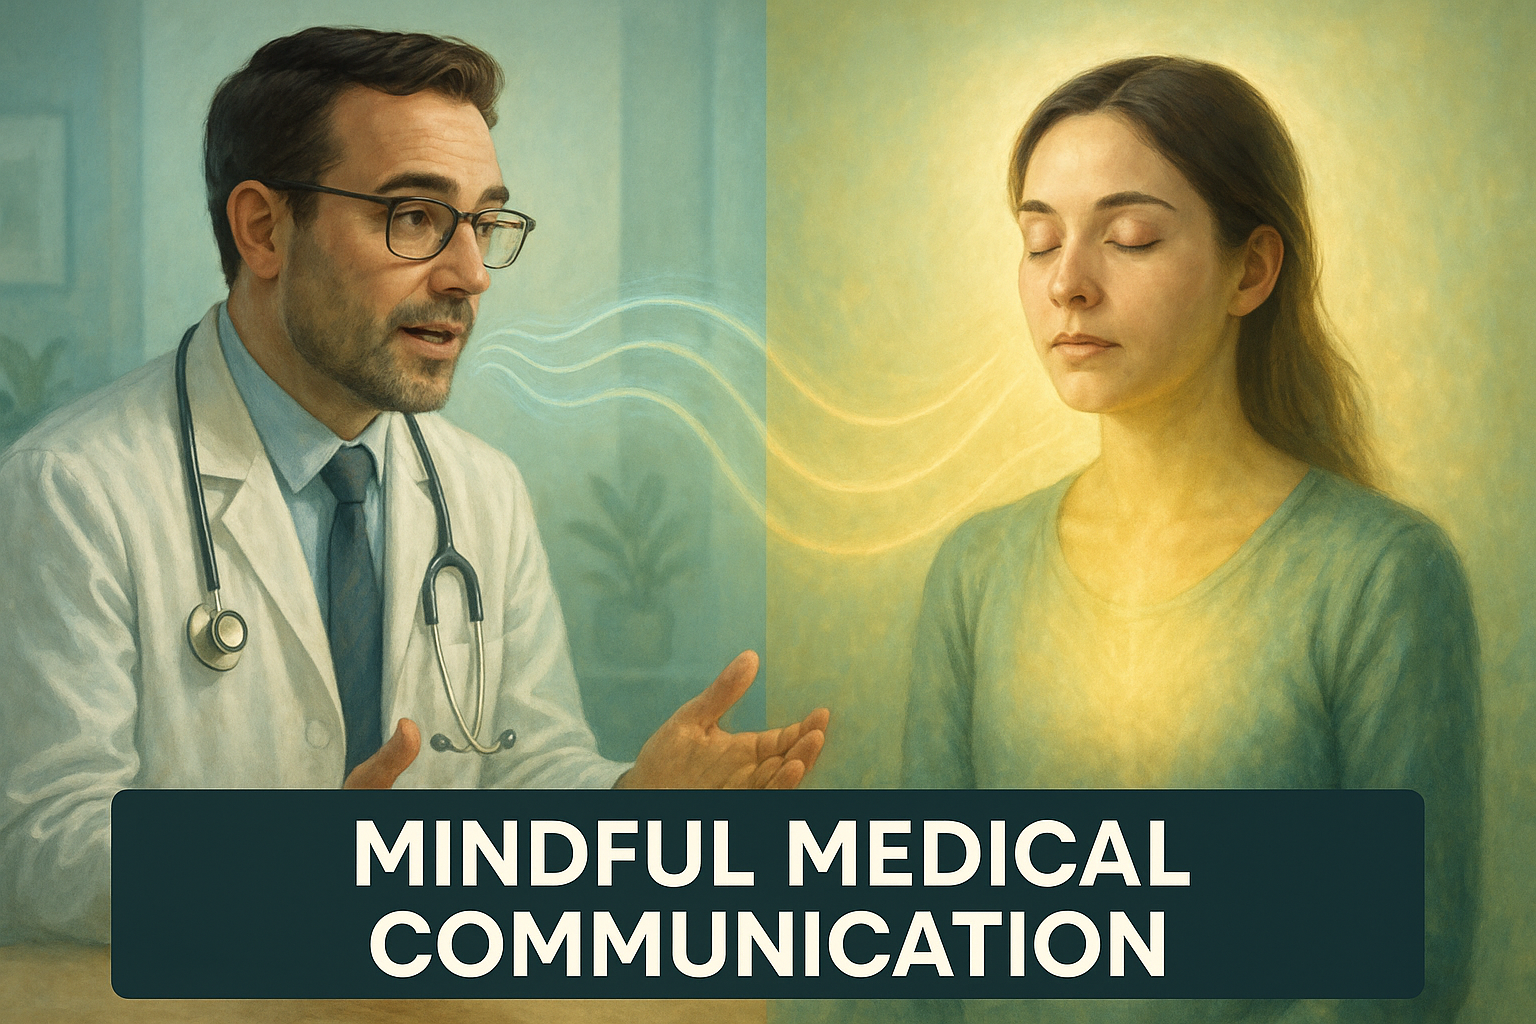
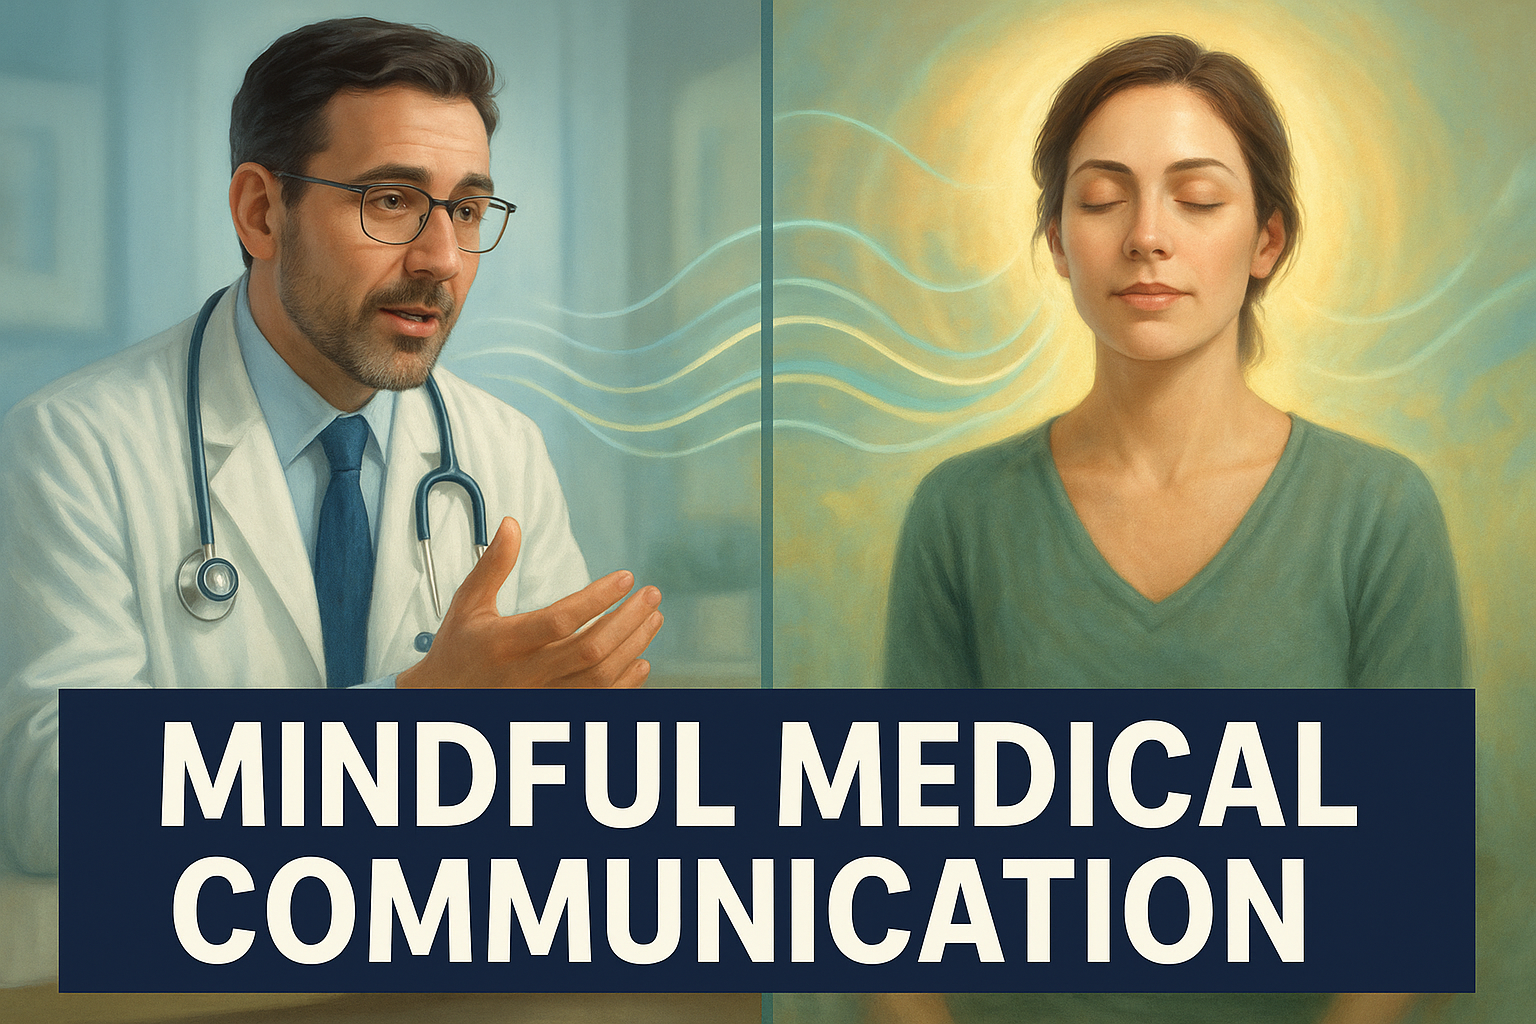
fix: improve article formatting and thumbnail readability
- Reformat article content with proper HTML structure (h2, h3, p, ul, ol tags)
- Magazine-style layout matching other eLibrary articles
- Replace thumbnail with improved version - better text contrast and readability
- Clear 'MINDFUL MEDICAL COMMUNICATION' text banner
- Maintain all SEO optimization and meta tags

diff --git a/blog/blog-post-medical_trance_healing.html b/blog/blog-post-medical_trance_healing.html
@@ -113,7 +113,7 @@
     <article class="blog-post">
         <div class="post-header">
             <div class="breadcrumb">
-                <a href="/">Home</a> &gt; <a href="/blog/">eLibrary</a> &gt; The Unspoken Power: How Your Doctor's Words Shape Healing in a Trance-Like State
+                <a href="/">Home</a> &gt; <a href="/blog/">eLibrary</a> &gt; Medical Trance Healing
             </div>
             
             <h1 class="post-title">The Unspoken Power: How Your Doctor's Words Shape Healing in a Trance-Like State</h1>
@@ -134,155 +134,153 @@
         </div>
 
         <div class="post-content">
-            <h2>Understanding Medical Suggestibility and Patient Empowerment</h2>
+            <p>When you sit in a doctor's office waiting for test results or a diagnosis, something profound happens to your mind and body that most patients never realize. According to psychotherapist Penny Moon, author of "Wellness For Schools," you enter a heightened state of suggestibility—similar to a hypnotic trance—that makes you extraordinarily receptive to every word your doctor speaks. Understanding this phenomenon can fundamentally change how you approach medical consultations and take control of your healing journey.</p>
 
+<h2 id="understanding-medical-suggestibility-and-patient-empowerment">Understanding Medical Suggestibility and Patient Empowerment</h2>
 <p>When you sit in a doctor's office waiting for test results or a diagnosis, something profound happens to your mind and body that most patients never realize. According to psychotherapist Penny Moon, author of "Wellness For Schools," you enter a heightened state of suggestibility—similar to a hypnotic trance—that makes you extraordinarily receptive to every word your doctor speaks. Understanding this phenomenon can fundamentally change how you approach medical consultations and take control of your healing journey.</p>
 
-<h2>The Science Behind Medical Trance States</h2>
+<hr />
 
+<h2 id="the-science-behind-medical-trance-states">The Science Behind Medical Trance States</h2>
 <p>Fear is arguably the most powerful human emotion, and nowhere is this more evident than in medical settings. When facing potential health challenges, your brain automatically enters a state of hypervigilance, creating conditions remarkably similar to clinical hypnosis. This is not metaphorical—it is a measurable psychological and physiological state that occurs through three distinct mechanisms.</p>
 
-<h3>1. Canalization of Attention: The Hyperfocus Effect</h3>
-
+<h3 id="1.-canalization-of-attention-the-hyperfocus-effect">1. Canalization of Attention: The Hyperfocus Effect</h3>
 <p>When waiting for medical news, your attention becomes intensely focused on your doctor, their facial expressions, tone of voice, and every word they speak. This phenomenon, known as <strong>canalization of attention</strong>, is the same mechanism hypnotherapists use to induce trance states. Your mind narrows its focus so dramatically that peripheral awareness fades, and the doctor's words become the singular point of reality.</p>
-
 <p>Research in cognitive psychology has demonstrated that heightened emotional states, particularly fear and anxiety, create what scientists call <strong>attentional bias</strong>. In this state, you become more receptive to direct suggestions and interpretations of information. What your doctor says in these moments does not simply convey information—it plants seeds that can profoundly influence your healing trajectory.</p>
 
-<h3>2. Rhythm: The Unconscious Synchronization</h3>
-
+<h3 id="2.-rhythm-the-unconscious-synchronization">2. Rhythm: The Unconscious Synchronization</h3>
 <p>While you may not notice it consciously, the cadence of your doctor's voice, the flow of information, and even the structure of the medical consultation create a psychological rhythm. Your heart rate, breathing, and internal physiological processes begin to synchronize with these external patterns—a phenomenon known as <strong>entrainment</strong> in psychology.</p>
-
 <p>This rhythmic synchronization deepens the trance-like state. The repetitive nature of medical procedures, the predictable structure of consultations, and even the ambient sounds of the medical environment all contribute to this subtle but powerful effect. Your body and mind become attuned to the rhythm of the moment, increasing your receptivity to suggestion.</p>
 
-<h3>3. Breathing: The Gateway to Altered Consciousness</h3>
-
+<h3 id="3.-breathing-the-gateway-to-altered-consciousness">3. Breathing: The Gateway to Altered Consciousness</h3>
 <p>Fear and anxiety directly alter your breathing patterns. You may notice yourself holding your breath, breathing shallowly, or experiencing shortness of breath during stressful medical moments. These involuntary changes in breathing are not merely symptoms of anxiety—they actively shift your consciousness into a more suggestible state.</p>
-
 <p>In hypnotherapy and mindfulness practices, conscious control of breathing is a primary tool for altering states of consciousness. Conversely, when fear triggers involuntary breathing changes, your body naturally enters a state where suggestibility increases and your mind becomes more receptive to external influence. This is why the words spoken during these moments carry such extraordinary weight.</p>
 
-<h2>The Doctor's Dilemma: Training vs. Healing</h2>
+<hr />
 
+<h2 id="the-doctor's-dilemma-training-vs.-healing">The Doctor's Dilemma: Training vs. Healing</h2>
 <p>Medical professionals face a challenging paradox. Traditional medical training emphasizes comprehensive disclosure, including worst-case scenarios, often for legal protection and informed consent. Doctors are taught to prepare patients for all possibilities, which frequently means focusing on potential complications, risks, and negative outcomes.</p>
-
 <p>However, Penny Moon's insight reveals a critical blind spot in this approach. When doctors deliver worst-case scenarios to patients in heightened suggestible states, they may inadvertently embed negative suggestions that hinder healing. The patient's hyperfocused, trance-like mind absorbs these words with extraordinary potency, potentially creating self-fulfilling prophecies or unnecessary psychological barriers to recovery.</p>
-
 <p>This is not about withholding information or providing false hope. Rather, it is about recognizing the profound psychological impact of medical communication and the responsibility that comes with speaking to someone in a vulnerable, suggestible state.</p>
 
-<h2>The Opportunity: Mindful Medical Communication</h2>
+<hr />
 
+<h2 id="the-opportunity-mindful-medical-communication">The Opportunity: Mindful Medical Communication</h2>
 <p>The recognition of medical trance states presents an extraordinary opportunity for both patients and healthcare providers. When doctors understand the suggestible state their patients occupy, they can craft communication that empowers healing while still providing honest, comprehensive information.</p>
 
-<h3>For Patients: Taking Control of Your Medical Experience</h3>
-
+<h3 id="for-patients-taking-control-of-your-medical-experience">For Patients: Taking Control of Your Medical Experience</h3>
 <p>Understanding that you enter a trance-like state during medical consultations gives you powerful tools to protect and empower yourself:</p>
-
 <p><strong>Before Your Appointment:</strong>
 - Practice grounding techniques such as deep breathing or mindfulness meditation to maintain some conscious awareness during the consultation
 - Prepare specific questions in writing to help maintain cognitive engagement
 - Consider bringing a trusted friend or family member who can help you process information more objectively</p>
-
 <p><strong>During Your Appointment:</strong>
 - Notice your breathing and consciously slow it down if you feel anxiety rising
 - Ask your doctor to explain information in multiple ways, which helps engage your critical thinking
 - Request written summaries of important information to review later when you are in a calmer state
 - Feel empowered to ask, "What is the most hopeful realistic outcome?" alongside discussions of risks</p>
-
 <p><strong>After Your Appointment:</strong>
 - Give yourself time to process information before making major decisions
 - Revisit written materials when you are in a calm, grounded state
 - Seek second opinions if you feel overwhelmed by negative prognoses
 - Consider working with a therapist or counselor to process difficult medical news</p>
 
-<h3>For Healthcare Providers: The Power of Healing Words</h3>
-
+<h3 id="for-healthcare-providers-the-power-of-healing-words">For Healthcare Providers: The Power of Healing Words</h3>
 <p>Medical professionals can harness the power of patient suggestibility for healing rather than inadvertently hindering it:</p>
+<ul>
+<li>Frame information constructively<strong>: Instead of leading with worst-case scenarios, present information in a balanced way that acknowledges challenges while emphasizing treatment options and positive outcomes</li>
+<li>Use empowering language<strong>: Replace "You might never..." with "Many patients successfully..." or "We have effective approaches to..."</li>
+<li>Recognize the trance state<strong>: Pause before delivering significant news and consider the psychological impact of your words</li>
+<li>Provide hope alongside honesty<strong>: Honest communication does not require eliminating hope; it requires balancing realism with possibility</li>
+</ul>
 
-- <strong>Frame information constructively</strong>: Instead of leading with worst-case scenarios, present information in a balanced way that acknowledges challenges while emphasizing treatment options and positive outcomes
-- <strong>Use empowering language</strong>: Replace "You might never..." with "Many patients successfully..." or "We have effective approaches to..."
-- <strong>Recognize the trance state</strong>: Pause before delivering significant news and consider the psychological impact of your words
-- <strong>Provide hope alongside honesty</strong>: Honest communication does not require eliminating hope; it requires balancing realism with possibility
+<hr />
 
-<h2>The Key Message: Fear Creates Profound Suggestibility</h2>
-
+<h2 id="the-key-message-fear-creates-profound-suggestibility">The Key Message: Fear Creates Profound Suggestibility</h2>
 <p>At the moment of diagnosis or when receiving medical test results, patients exist in a profound state of suggestibility. Fear is the strongest human emotion, and it creates a psychological environment where words carry exponential weight. This is not weakness—it is human neurobiology responding to perceived threat.</p>
-
 <p>The question is not whether this trance state occurs, but rather how we respond to its existence. Will we allow unconscious negative suggestions to shape healing outcomes, or will we harness this moment of heightened receptivity to plant seeds of resilience, hope, and empowerment?</p>
 
-<h2>Practical Steps for Patient Empowerment</h2>
+<hr />
 
-<h3>Creating Your Own Healing Narrative</h3>
+<h2 id="practical-steps-for-patient-empowerment">Practical Steps for Patient Empowerment</h2>
 
+<h3 id="creating-your-own-healing-narrative">Creating Your Own Healing Narrative</h3>
 <p>After receiving medical information, particularly challenging diagnoses, you have the power to consciously reshape the narrative:</p>
+<ol>
+<li><strong>Acknowledge the trance</strong>: Recognize that you were in a heightened suggestible state and that your initial emotional reaction may not represent the full reality</li>
+<li><strong>Seek balanced information</strong>: Research your condition from multiple reputable sources, focusing on success stories alongside challenges</li>
+<li><strong>Connect with others</strong>: Join support groups where you can hear from people who have successfully navigated similar health challenges</li>
+<li><strong>Work with your mind</strong>: Consider hypnotherapy, guided imagery, or meditation practices that can help you consciously plant positive suggestions to counteract any negative ones absorbed during diagnosis</li>
+<li><strong>Communicate with your healthcare team</strong>: Let your doctors know that you want communication framed in empowering ways while remaining honest</li>
+</ol>
 
-1. <strong>Acknowledge the trance</strong>: Recognize that you were in a heightened suggestible state and that your initial emotional reaction may not represent the full reality
-2. <strong>Seek balanced information</strong>: Research your condition from multiple reputable sources, focusing on success stories alongside challenges
-3. <strong>Connect with others</strong>: Join support groups where you can hear from people who have successfully navigated similar health challenges
-4. <strong>Work with your mind</strong>: Consider hypnotherapy, guided imagery, or meditation practices that can help you consciously plant positive suggestions to counteract any negative ones absorbed during diagnosis
-5. <strong>Communicate with your healthcare team</strong>: Let your doctors know that you want communication framed in empowering ways while remaining honest
-
-<h3>Questions to Ask Your Doctor</h3>
-
+<h3 id="questions-to-ask-your-doctor">Questions to Ask Your Doctor</h3>
 <p>Empower yourself by asking questions that invite constructive communication:</p>
+<ul>
+<li>"What is the most positive realistic outcome for my situation?"</li>
+<li>"What can I do to optimize my chances of the best outcome?"</li>
+<li>"Can you share examples of patients who have done well with this condition?"</li>
+<li>"What gives you hope when treating this condition?"</li>
+<li>"How can I be an active participant in my healing?"</li>
+</ul>
 
-- "What is the most positive realistic outcome for my situation?"
-- "What can I do to optimize my chances of the best outcome?"
-- "Can you share examples of patients who have done well with this condition?"
-- "What gives you hope when treating this condition?"
-- "How can I be an active participant in my healing?"
+<hr />
 
-<h2>The Broader Implications: Transforming Healthcare Communication</h2>
-
+<h2 id="the-broader-implications-transforming-healthcare-communication">The Broader Implications: Transforming Healthcare Communication</h2>
 <p>Penny Moon's insights into medical trance states point toward a broader transformation needed in healthcare communication. Medical education increasingly recognizes the importance of patient-centered communication, but understanding the psychological mechanisms of suggestibility could revolutionize how we approach the doctor-patient relationship.</p>
-
 <p>When healthcare providers understand that they are speaking to patients in trance-like states, they become more than information deliverers—they become partners in creating healing narratives. This does not mean sugarcoating difficult realities, but rather recognizing that how information is delivered can be as important as what information is delivered.</p>
 
-<h2>Conclusion: Reclaiming Your Power in Medical Settings</h2>
+<hr />
 
+<h2 id="conclusion-reclaiming-your-power-in-medical-settings">Conclusion: Reclaiming Your Power in Medical Settings</h2>
 <p>The recognition that medical consultations induce trance-like states of heightened suggestibility is not meant to create fear or distrust of healthcare providers. Rather, it is an invitation to conscious awareness and empowerment. When you understand the psychological mechanisms at play, you can take active steps to protect yourself from inadvertent negative suggestions while remaining open to healing possibilities.</p>
-
 <p>Your doctor's words carry profound power, particularly in moments of fear and vulnerability. But you also carry power—the power to consciously process information, to seek balanced perspectives, to question narratives that feel disempowering, and to actively participate in creating your own healing journey.</p>
-
 <p>Mindful communication in medical settings is not about denial or false hope. It is about recognizing the profound psychological impact of words spoken in moments of heightened suggestibility and choosing to use that power wisely—for healing, resilience, and genuine empowerment.</p>
 
-<h2>About the Author</h2>
+<hr />
 
+<h2 id="about-the-author">About the Author</h2>
 <p><strong>Penny Moon</strong> is a psychotherapist and author of "Wellness For Schools." Her work focuses on the intersection of psychology, communication, and healing, with particular emphasis on how language and emotional states influence health outcomes. Through her research and clinical practice, Penny has developed frameworks for understanding the profound impact of communication in medical and educational settings.</p>
 
-<h2>References</h2>
+<hr />
 
-1. Bargh, J. A., & Chartrand, T. L. (1999). The unbearable automaticity of being. *American Psychologist*, 54(7), 462-479.
-2. Bower, G. H. (1981). Mood and memory. *American Psychologist*, 36(2), 129-148.
-3. Erickson, M. H., & Rossi, E. L. (1979). *Hypnotherapy: An exploratory casebook*. Irvington Publishers.
-4. Kaptchuk, T. J., et al. (2008). Components of placebo effect: Randomised controlled trial in patients with irritable bowel syndrome. *BMJ*, 336(7651), 999-1003.
-5. Levinson, W., Gorawara-Bhat, R., & Lamb, J. (2000). A study of patient clues and physician responses in primary care and surgical settings. *JAMA*, 284(8), 1021-1027.
-6. Moon, P. (2024). *Wellness For Schools*. [Publisher information]
-7. Roter, D. L., & Hall, J. A. (2006). *Doctors talking with patients/patients talking with doctors: Improving communication in medical visits*. Praeger.
-8. Shapiro, A. K., & Shapiro, E. (1997). *The powerful placebo: From ancient priest to modern physician*. Johns Hopkins University Press.
-
+<h2 id="references">References</h2>
+<ol>
+<li>Bargh, J. A., & Chartrand, T. L. (1999). The unbearable automaticity of being. *American Psychologist*, 54(7), 462-479.</li>
+<li>Bower, G. H. (1981). Mood and memory. *American Psychologist*, 36(2), 129-148.</li>
+<li>Erickson, M. H., & Rossi, E. L. (1979). *Hypnotherapy: An exploratory casebook*. Irvington Publishers.</li>
+<li>Kaptchuk, T. J., et al. (2008). Components of placebo effect: Randomised controlled trial in patients with irritable bowel syndrome. *BMJ*, 336(7651), 999-1003.</li>
+<li>Levinson, W., Gorawara-Bhat, R., & Lamb, J. (2000). A study of patient clues and physician responses in primary care and surgical settings. *JAMA*, 284(8), 1021-1027.</li>
+<li>Moon, P. (2024). *Wellness For Schools*. [Publisher information]</li>
+<li>Roter, D. L., & Hall, J. A. (2006). *Doctors talking with patients/patients talking with doctors: Improving communication in medical visits*. Praeger.</li>
+<li>Shapiro, A. K., & Shapiro, E. (1997). *The powerful placebo: From ancient priest to modern physician*. Johns Hopkins University Press.</li>
+</ol>
 <p><strong>Keywords:</strong> medical communication, patient empowerment, doctor-patient relationship, medical anxiety, suggestibility, hypnotic trance, healthcare psychology, healing mindset, medical consultation tips, patient advocacy</p>
-
 <p><strong>Category:</strong> Patient Resources  
 <strong>Reading Time:</strong> 12 minutes  
 <strong>Last Updated:</strong> October 12, 2025</p>
+
+<hr />
+
         </div>
 
         <div class="post-footer">
             <div class="share-section">
                 <h3>Share This Article</h3>
                 <div class="share-buttons">
-                    <a href="https://twitter.com/intent/tweet?url=https://andysquire.ai/blog/blog-post-medical_trance_healing.html&text=The Unspoken Power: How Your Doctor's Words Shape Healing in a Trance-Like State" target="_blank" class="share-btn twitter" onclick="trackSocialShare('twitter', 'The Unspoken Power: How Your Doctor's Words Shape Healing in a Trance-Like State')">
+                    <a href="https://twitter.com/intent/tweet?url=https://andysquire.ai/blog/blog-post-medical_trance_healing.html&text=The%20Unspoken%20Power%3A%20How%20Your%20Doctor%27s%20Words%20Shape%20Healing" target="_blank" class="share-btn twitter" onclick="trackSocialShare('twitter', 'Medical Trance Healing')">
                         <svg viewBox="0 0 24 24" width="20" height="20"><path fill="currentColor" d="M18.244 2.25h3.308l-7.227 8.26 8.502 11.24H16.17l-5.214-6.817L4.99 21.75H1.68l7.73-8.835L1.254 2.25H8.08l4.713 6.231zm-1.161 17.52h1.833L7.084 4.126H5.117z"/></svg>
                         Twitter
                     </a>
-                    <a href="https://www.linkedin.com/sharing/share-offsite/?url=https://andysquire.ai/blog/blog-post-medical_trance_healing.html" target="_blank" class="share-btn linkedin" onclick="trackSocialShare('linkedin', 'The Unspoken Power: How Your Doctor's Words Shape Healing in a Trance-Like State')">
+                    <a href="https://www.linkedin.com/sharing/share-offsite/?url=https://andysquire.ai/blog/blog-post-medical_trance_healing.html" target="_blank" class="share-btn linkedin" onclick="trackSocialShare('linkedin', 'Medical Trance Healing')">
                         <svg viewBox="0 0 24 24" width="20" height="20"><path fill="currentColor" d="M20.447 20.452h-3.554v-5.569c0-1.328-.027-3.037-1.852-3.037-1.853 0-2.136 1.445-2.136 2.939v5.667H9.351V9h3.414v1.561h.046c.477-.9 1.637-1.85 3.37-1.85 3.601 0 4.267 2.37 4.267 5.455v6.286zM5.337 7.433c-1.144 0-2.063-.926-2.063-2.065 0-1.138.92-2.063 2.063-2.063 1.14 0 2.064.925 2.064 2.063 0 1.139-.925 2.065-2.064 2.065zm1.782 13.019H3.555V9h3.564v11.452zM22.225 0H1.771C.792 0 0 .774 0 1.729v20.542C0 23.227.792 24 1.771 24h20.451C23.2 24 24 23.227 24 22.271V1.729C24 .774 23.2 0 22.222 0h.003z"/></svg>
                         LinkedIn
                     </a>
-                    <a href="https://www.facebook.com/sharer/sharer.php?u=https://andysquire.ai/blog/blog-post-medical_trance_healing.html" target="_blank" class="share-btn facebook" onclick="trackSocialShare('facebook', 'The Unspoken Power: How Your Doctor's Words Shape Healing in a Trance-Like State')">
+                    <a href="https://www.facebook.com/sharer/sharer.php?u=https://andysquire.ai/blog/blog-post-medical_trance_healing.html" target="_blank" class="share-btn facebook" onclick="trackSocialShare('facebook', 'Medical Trance Healing')">
                         <svg viewBox="0 0 24 24" width="20" height="20"><path fill="currentColor" d="M24 12.073c0-6.627-5.373-12-12-12s-12 5.373-12 12c0 5.99 4.388 10.954 10.125 11.854v-8.385H7.078v-3.47h3.047V9.43c0-3.007 1.792-4.669 4.533-4.669 1.312 0 2.686.235 2.686.235v2.953H15.83c-1.491 0-1.956.925-1.956 1.874v2.25h3.328l-.532 3.47h-2.796v8.385C19.612 23.027 24 18.062 24 12.073z"/></svg>
                         Facebook
                     </a>
-                    <button class="share-btn email" onclick="window.location.href='mailto:?subject=The Unspoken Power: How Your Doctor's Words Shape Healing in a Trance-Like State&body=Check out this article: https://andysquire.ai/blog/blog-post-medical_trance_healing.html'; trackSocialShare('email', 'The Unspoken Power: How Your Doctor's Words Shape Healing in a Trance-Like State')">
+                    <button class="share-btn email" onclick="window.location.href='mailto:?subject=The%20Unspoken%20Power%3A%20How%20Your%20Doctor%27s%20Words%20Shape%20Healing&body=Check%20out%20this%20article%3A%20https%3A%2F%2Fandysquire.ai%2Fblog%2Fblog-post-medical_trance_healing.html'; trackSocialShare('email', 'Medical Trance Healing')">
                         <svg viewBox="0 0 24 24" width="20" height="20"><path fill="currentColor" d="M20 4H4c-1.1 0-1.99.9-1.99 2L2 18c0 1.1.9 2 2 2h16c1.1 0 2-.9 2-2V6c0-1.1-.9-2-2-2zm0 4l-8 5-8-5V6l8 5 8-5v2z"/></svg>
                         Email
                     </a>
